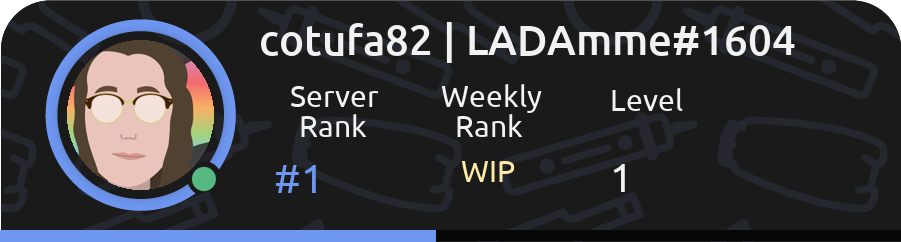
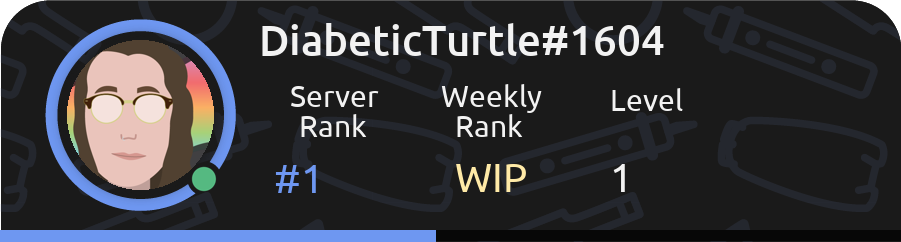
aligned text
Updated font on WIP

Changed region(s): [[0.2797, 0.0868, 0.9012, 0.2603], [0.4972, 0.6653, 0.5905, 0.8099]]

diff --git a/disrank/generator.py b/disrank/generator.py
@@ -96,7 +96,7 @@ class Generator:
         draw.text((299, 109), "Rank", WHITE, font=font_med)
         draw.text((441, 79), "Weekly", WHITE, font=font_med)
         draw.text((455, 109), "Rank", WHITE, font=font_med)
-        draw.text((461, 154), "WIP", YELLOW, font=font_med)
+        draw.text((455, 154), "WIP", YELLOW, font=font_normal)
         draw.text((259, 15), user_name, WHITE, font=font_large)
         draw.text((274, 155), f"#{user_position}", DARK, font=font_normal)
         draw.text((610, 83), f"Level", WHITE, font=font_med)

diff --git a/testing.py b/testing.py
@@ -15,7 +15,7 @@ args = {
 			'user_xp' : 50, # User current xp
 			'next_xp' : 100, # xp required for next level
 			'user_position' : 1, # User position in leaderboard
-			'user_name' : "cotufa82 | LADAmme#1604", # user name with descriminator 
+			'user_name' : "DiabeticTurtle#1604", # user name with descriminator 
 			'user_status' : "online", # User status eg. online, offline, idle, streaming, dnd
 		}
 
